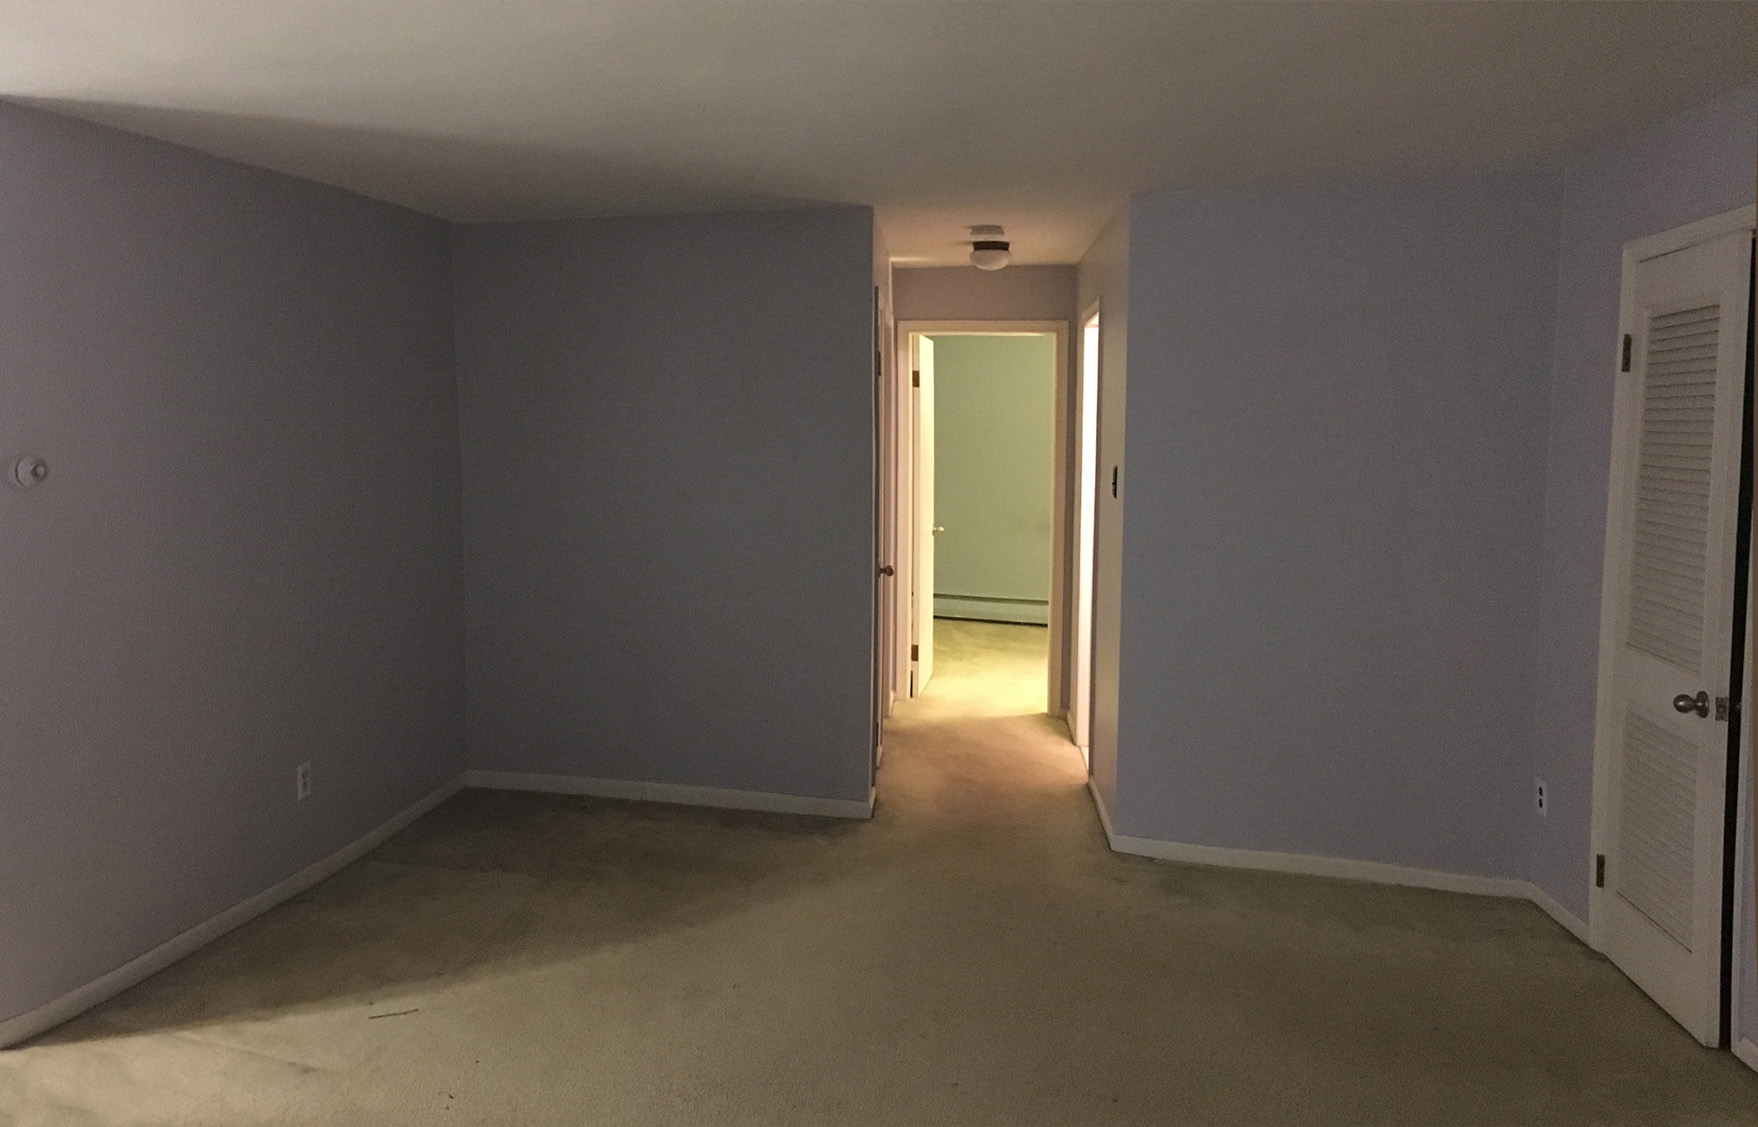
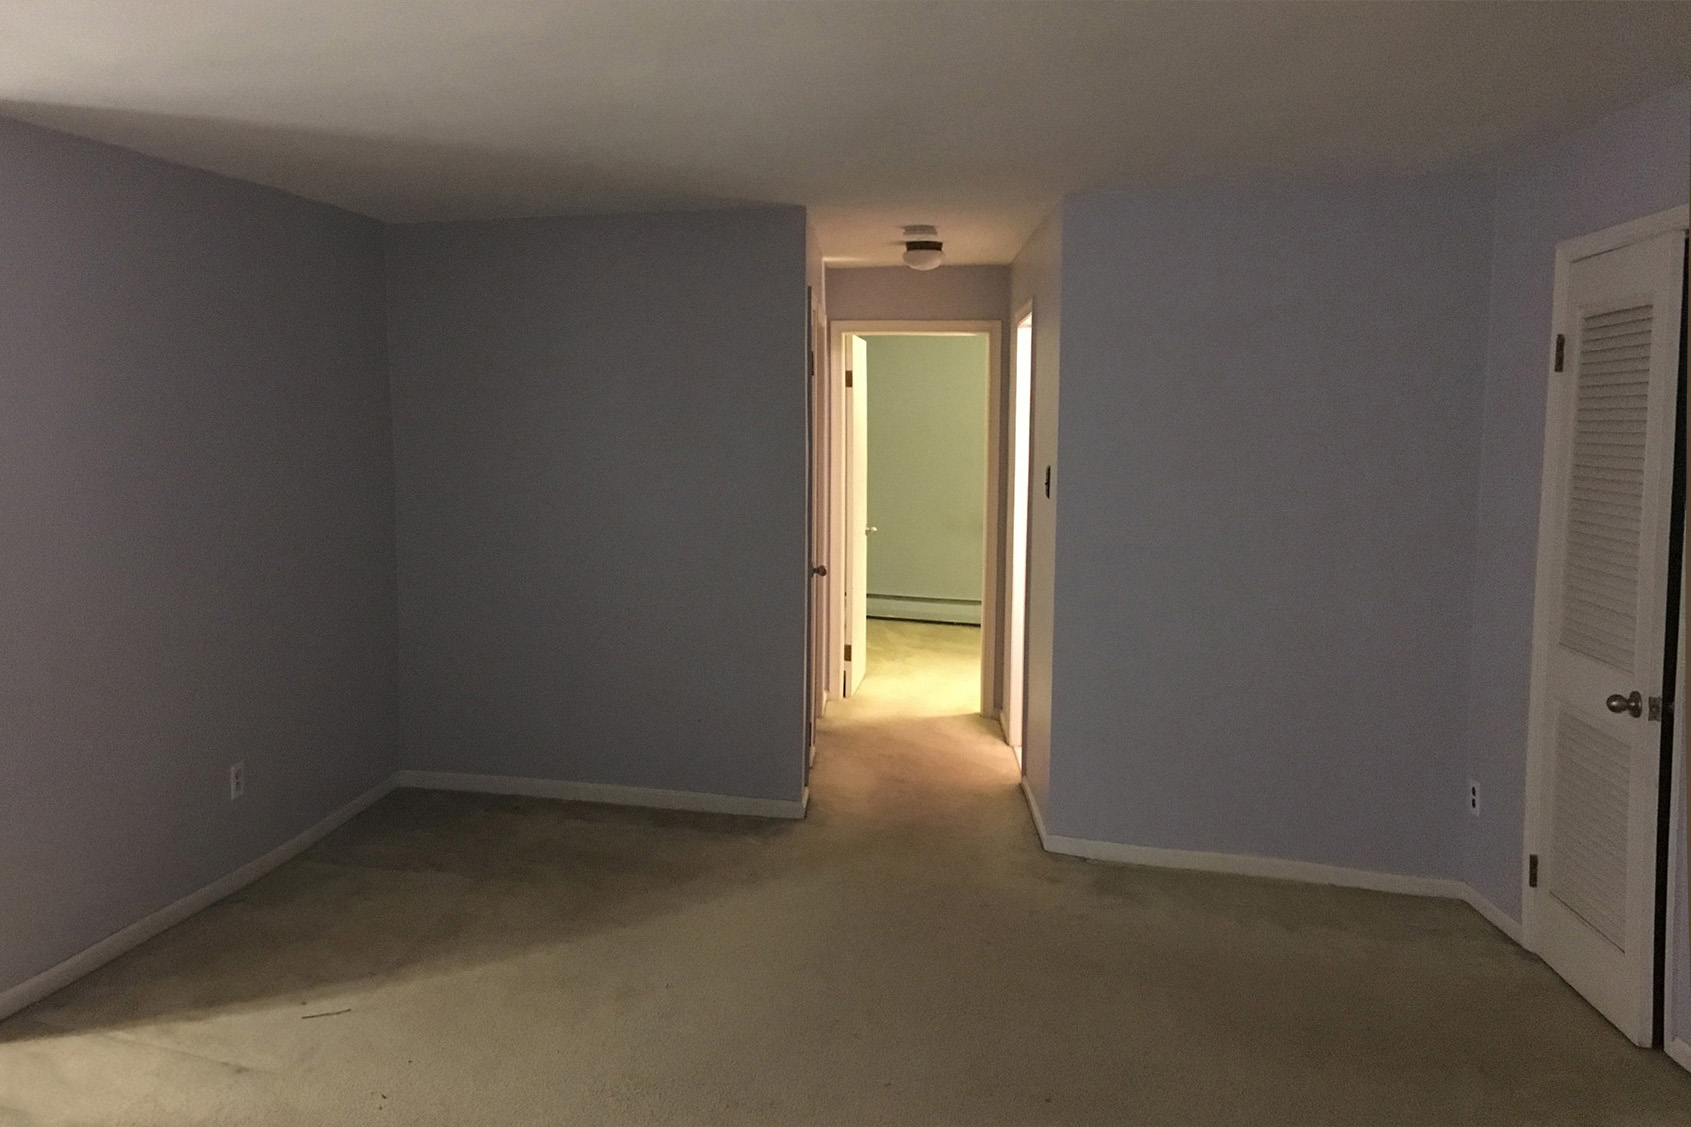
2nd image

diff --git a/js/index.js b/js/index.js
@@ -93,18 +93,30 @@ const startEventListener = () => {
   window.addEventListener('scroll', throttledHandleScroll);
 
   document.addEventListener("DOMContentLoaded", () => {
-    const container = document.querySelector(".comparison-container");
-    const sliderBar = document.getElementById("slider-bar");
-    const afterImage = document.querySelector(".comparison-after");
+    // const container1 = document.querySelector(".comparison-container");
+    const container1 = document.getElementById("js-container1");
+    const sliderBar1 = document.getElementById("js-slider-bar1");
+    const afterImage1 = document.getElementById("js-img1-after");
+    const container2 = document.getElementById("js-container2");
+    const sliderBar2 = document.getElementById("js-slider-bar2");
+    const afterImage2 = document.getElementById("js-img2-after");
+    // const afterImage1 = document.querySelector(".comparison-after");
   
-    let isDragging = false;
+    let isDragging1 = false;
+    let isDragging2 = false;
 
     const setStartingPoint = () => {
-      const rect = container.getBoundingClientRect();
-      const startX = rect.width * 0.3; // 30% of the container's width
+      const rect1 = container1.getBoundingClientRect();
+      const startX1 = rect1.width * 0.3; // 30% of the container1's width
   
-      sliderBar.style.left = `${startX}px`; // Position the slider bar at 20%
-      afterImage.style.clipPath = `inset(0 ${100 - 30}% 0 0)`; // Clip 80% of the "After" image
+      sliderBar1.style.left = `${startX1}px`; // Position the slider bar at 20%
+      afterImage1.style.clipPath = `inset(0 ${100 - 30}% 0 0)`; // Clip 80% of the "After" image
+
+      const rect2 = container2.getBoundingClientRect();
+      const startX2 = rect2.width * 0.3; // 30% of the container1's width
+  
+      sliderBar2.style.left = `${startX2}px`; // Position the slider bar at 20%
+      afterImage2.style.clipPath = `inset(0 ${100 - 30}% 0 0)`; // Clip 80% of the "After" image
     };
 
       // Call the starting point function once DOM is loaded
@@ -112,68 +124,90 @@ const startEventListener = () => {
 
       // Helper function to handle movement (used for both mouse and touch)
     function handleMove(clientX) {
-      const rect = container.getBoundingClientRect();
+      const rect = container1.getBoundingClientRect();
       let offsetX = clientX - rect.left;
 
-      // Constrain the movement within the container
+      // Constrain the movement within the container1
       offsetX = Math.max(0, Math.min(offsetX, rect.width));
 
       // Update slider position and image clipping
-      sliderBar.style.left = `${offsetX}px`;
+      sliderBar1.style.left = `${offsetX}px`;
       const percentage = (offsetX / rect.width) * 100;
-      afterImage.style.clipPath = `inset(0 ${100 - percentage}% 0 0)`;
+      afterImage1.style.clipPath = `inset(0 ${100 - percentage}% 0 0)`;
+    }
+
+    function handleMove2(clientX) {
+      const rect = container2.getBoundingClientRect();
+      let offsetX = clientX - rect.left;
+
+      // Constrain the movement within the container1
+      offsetX = Math.max(0, Math.min(offsetX, rect.width));
+
+      // Update slider position and image clipping
+      sliderBar2.style.left = `${offsetX}px`;
+      const percentage = (offsetX / rect.width) * 100;
+      afterImage2.style.clipPath = `inset(0 ${100 - percentage}% 0 0)`;
     }
   
     // Mouse down event to start dragging
-    sliderBar.addEventListener("mousedown", e => {
+    sliderBar1.addEventListener("mousedown", e => {
       e.preventDefault();
-      console.log("AK: Mouse Down")
-      isDragging = true;
+      isDragging1 = true;
     });
-  
+
+    sliderBar2.addEventListener("mousedown", e => {
+      e.preventDefault();
+      isDragging2 = true;
+    });
+
     // Mouse up event to stop dragging
     document.addEventListener("mouseup", () => {
-      isDragging = false;
-      sliderBar.blur(); // Prevent focus styling
+      isDragging1 = false;
+      isDragging2 = false;
+      sliderBar1.blur(); // Prevent focus styling
+      sliderBar2.blur(); // Prevent focus styling
     });
   
     // Mouse move event to adjust the slider
-    container.addEventListener("mousemove", (e) => {
-      if (!isDragging) return;
+    container1.addEventListener("mousemove", (e) => {
+      if (!isDragging1) return;
       handleMove(e.clientX);
-
-
+    });
   
-      // // Get the container's boundaries
-      // const rect = container.getBoundingClientRect();
-      // let offsetX = e.clientX - rect.left;
-  
-      // // Constrain the slider within the container
-      // offsetX = Math.max(0, Math.min(offsetX, rect.width));
-  
-      // // Update the position of the slider bar
-      // sliderBar.style.left = `${offsetX}px`;
-  
-      // // Adjust the clip-path of the "After" image
-      // const percentage = (offsetX / rect.width) * 100;
-      // afterImage.style.clipPath = `inset(0 ${100 - percentage}% 0 0)`;
+    // Mouse move event to adjust the slider
+    container2.addEventListener("mousemove", (e) => {
+      if (!isDragging2) return;
+      handleMove2(e.clientX);
     });
 
       // Touch events
-    sliderBar.addEventListener("touchstart", (e) => {
-      isDragging = true;
+    sliderBar1.addEventListener("touchstart", (e) => {
       e.preventDefault(); // Prevent scrolling
+      isDragging1 = true;
+    });
+
+    sliderBar2.addEventListener("touchstart", (e) => {
+      e.preventDefault(); // Prevent scrolling
+      isDragging2 = true;
     });
 
     document.addEventListener("touchend", () => {
-      isDragging = false;
+      isDragging1 = false;
+      isDragging2 = false;
     });
 
-    container.addEventListener("touchmove", (e) => {
-      if (!isDragging) return;
+    container1.addEventListener("touchmove", (e) => {
+      if (!isDragging1) return;
       const touch = e.touches[0]; // Get the first touch point
       handleMove(touch.clientX);
     });
+
+    container2.addEventListener("touchmove", (e) => {
+      if (!isDragging2) return;
+      const touch = e.touches[0]; // Get the first touch point
+      handleMove2(touch.clientX);
+    });
+
   });
     
 

diff --git a/index.html b/index.html
@@ -113,10 +113,19 @@
     <div class="sample-block"> 
       <div class='hk-title-blue'>Before & After</div><br/><br/>
       <div onclick='handleBeforeAfter(event, "js-liv2")'>Before</div>
-      <div class="comparison-container">
-        <img src="./img/l2.jpg" alt="Before" class="comparison-img comparison-before">
-        <img src="./img/l1.jpg" alt="After" class="comparison-img comparison-after">
-        <div class="slider-bar" id="slider-bar">
+      <div id="js-container1" class="comparison-container">
+        <img id="js-img1-b4" src="./img/l2.jpg" alt="Before" class="comparison-img comparison-before">
+        <img  id="js-img1-after" src="./img/l1.jpg" alt="After" class="comparison-img comparison-after">
+        <div class="slider-bar" id="js-slider-bar1">
+          <div class="slider-knob"></div>
+        </div>
+      </div>
+      <br/><br/>
+
+      <div id="js-container2" class="comparison-container2">
+        <img id="js-img2-b4" src="./img/b2.jpg" alt="Before" class="comparison-img comparison-before">
+        <img  id="js-img2-after" src="./img/b1.jpg" alt="After" class="comparison-img comparison-after">
+        <div class="slider-bar" id="js-slider-bar2">
           <div class="slider-knob"></div>
         </div>
       </div>

diff --git a/css/index.css b/css/index.css
@@ -302,9 +302,18 @@ main {
 /* Container for the comparison images */
 .comparison-container {
   position: relative;
-  width: 100%;
-  max-width: 1200px; /* Set your desired width */
-  height: 769px;
+  width: 1200px;
+  /* max-width: 1200px; Set your desired width */
+  height: 800px;
+  overflow: hidden;
+  margin: auto; /* Center on the page */
+}
+
+.comparison-container2 {
+  position: relative;
+  width: 800px;
+  /* max-width: 800px; Set your desired width */
+  height: 1000px;
   overflow: hidden;
   margin: auto; /* Center on the page */
 }
@@ -315,7 +324,9 @@ main {
   top: 0;
   left: 0;
   width: 100%;
+  /* width: 1200px; */
   height: auto;
+  /* height: 800px; */
   object-fit: cover;
   pointer-events: none; /* Prevent interference with mouse events */
 }
@@ -405,7 +416,14 @@ main {
   /* Container for the comparison images */
 .comparison-container {
   width: 100%;
-  height: 300px;
+  height: 50vh;
+  overflow: hidden;
+  margin: auto; /* Center on the page */
+}
+
+.comparison-container2 {
+  width: 100%;
+  height: 70vh;
   overflow: hidden;
   margin: auto; /* Center on the page */
 }
